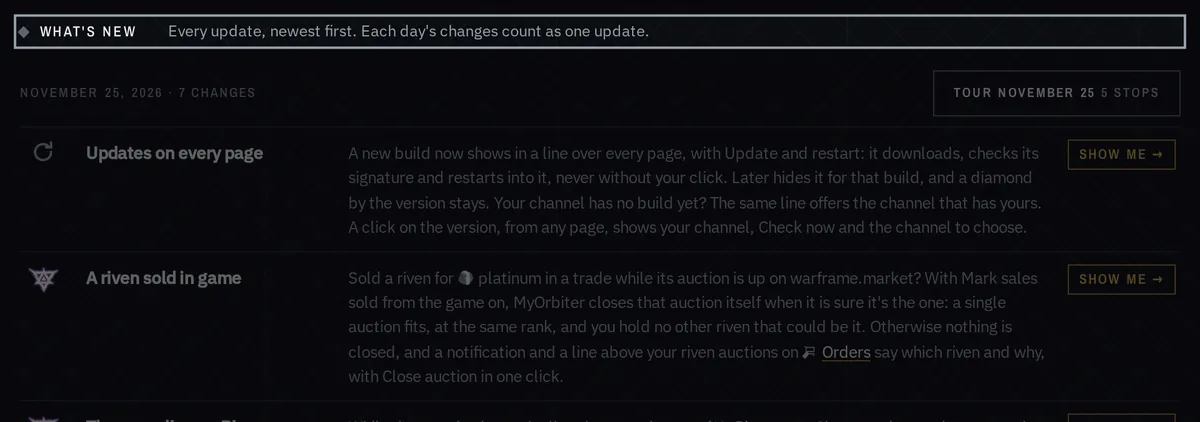
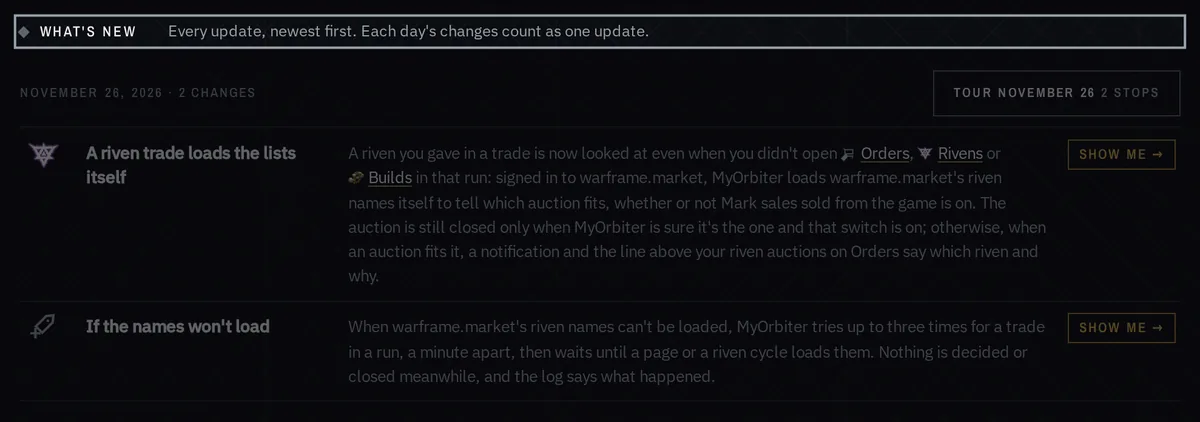
What's New: second item shows on Rivens; retake the two What's New pictures
The tour leaves out a stop on Settings, so with its Show me on Settings the
newest update had one stop, no Take the tour, and a tour button the help
picture marks was missing. The second item now shows on Rivens, one of the
pages that load the lists, so the update has a tour of two stops. The two
What's New help pictures show the newest day and are taken again.

diff --git a/src/lib/whatsNew.ts b/src/lib/whatsNew.ts
@@ -37,7 +37,7 @@ export const NEWS: NewsEntry[] = [
     date: "2026-11-26",
     items: [
       { title: "A riven trade loads the lists itself", icon: { game: "riven" }, text: "A riven you gave in a trade is now looked at even when you didn't open Orders, Rivens or Builds in that run: signed in to warframe.market, MyOrbiter loads warframe.market's riven names itself to tell which auction fits, whether or not Mark sales sold from the game is on. The auction is still closed only when MyOrbiter is sure it's the one and that switch is on; otherwise, when an auction fits it, a notification and the line above your riven auctions on Orders say which riven and why.", open: "market" },
-      { title: "If the names won't load", icon: { line: "list" }, text: "When warframe.market's riven names can't be loaded, MyOrbiter tries up to three times for a trade in a run, a minute apart, then waits until a page or a riven cycle loads them. Nothing is decided or closed meanwhile, and the log says what happened.", open: "settings#logs" },
+      { title: "If the names won't load", icon: { line: "list" }, text: "When warframe.market's riven names can't be loaded, MyOrbiter tries up to three times for a trade in a run, a minute apart, then waits until a page or a riven cycle loads them. Nothing is decided or closed meanwhile, and the log says what happened.", open: "rivens" },
     ],
   },
   {
